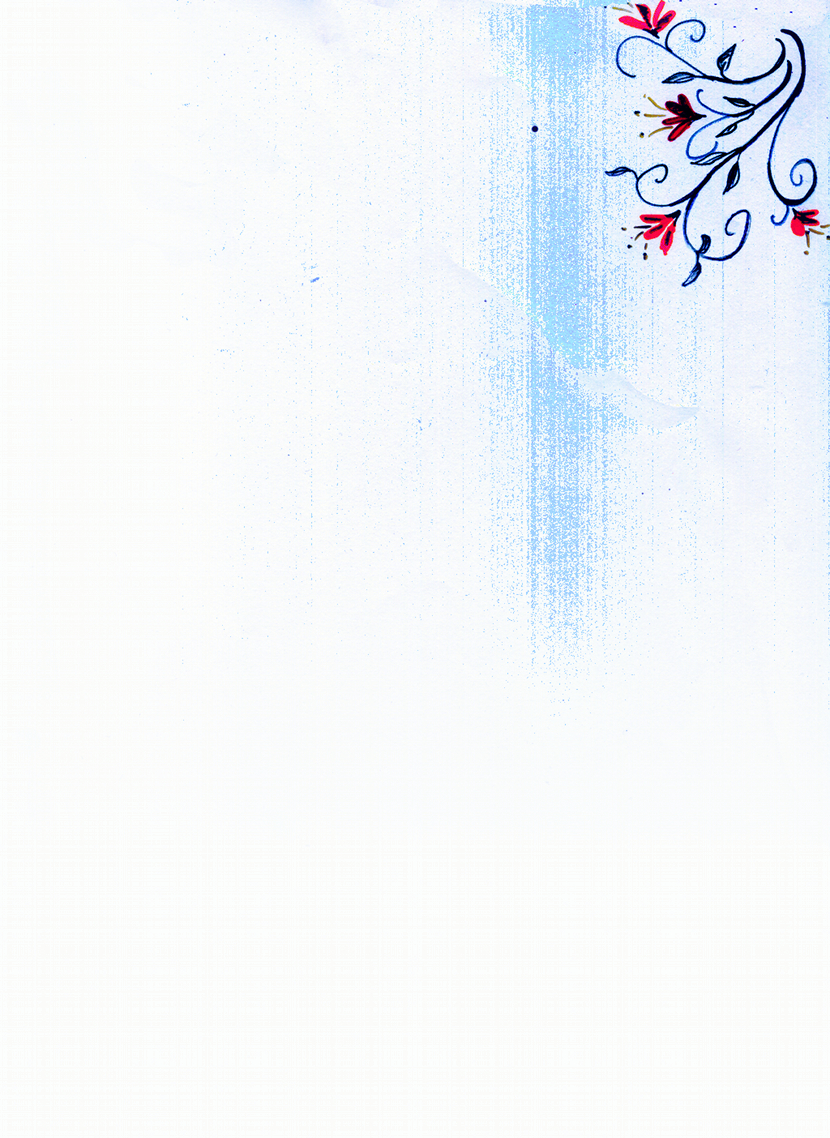
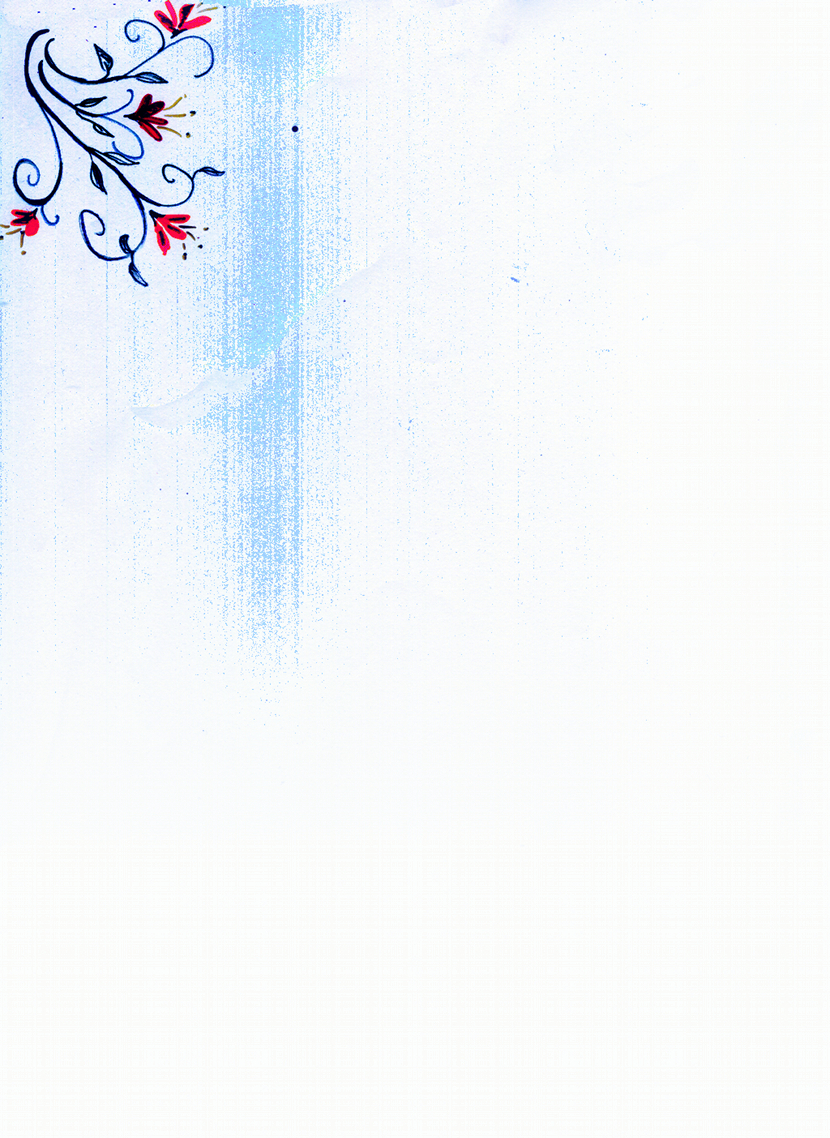
Switching the two columns around.

diff --git a/css/custom.css b/css/custom.css
@@ -1,5 +1,4 @@
 body {
-  background: #f9fafe url("../images/flower-background.jpg") no-repeat top right;
   font-family: Garamond, Arial, Verdana, sans-serif;
   font-size: 100%;
   margin: 0; }
@@ -50,10 +49,13 @@ article {
     list-style: circle;
     list-style-position: inside; }
 
+.container {
+  background: #f9fafe url("../images/flower-background.jpg") no-repeat top left; }
+
 nav {
   color: #2a5383;
   font-weight: bolder;
-  margin: 220px 0 0 0; }
+  margin: 266px 0 0 0; }
   nav ul {
     list-style: none; }
     nav ul li {

diff --git a/css/custom.sass b/css/custom.sass
@@ -1,5 +1,4 @@
 body
-  background: #f9fafe url("../images/flower-background.jpg") no-repeat top right
   font-family: Garamond, Arial, Verdana, sans-serif
   font-size: 100%
   margin: 0
@@ -53,10 +52,13 @@ article
     list-style: circle
     list-style-position: inside
 
+.container
+  background: #f9fafe url("../images/flower-background.jpg") no-repeat top left
 nav
+
   color: #2A5383
   font-weight: bolder
-  margin: 220px 0 0 0
+  margin: 266px 0 0 0
 
   ul
     list-style: none

diff --git a/index.php b/index.php
@@ -22,6 +22,10 @@ $content = file_get_contents($menu[$active_menu_item][1]);
   <meta http-equiv="X-UA-Compatible" content="IE=Edge;chrome=1" >
   <meta charset="utf-8">
 
+  <!--[if lt IE 9]>
+    <script src="http://html5shim.googlecode.com/svn/trunk/html5.js"></script>
+  <![endif]-->
+
   <title>Fairytale of the Forbidden Flower</title>
 
   <meta name="viewport" content="width=device-width, initial-scale=1.0"> 
@@ -54,28 +58,30 @@ $content = file_get_contents($menu[$active_menu_item][1]);
 
     <link href='http://fonts.googleapis.com/css?family=Reenie+Beanie' rel='stylesheet' type='text/css'>
 </head>
+
 <body><div class="container"><div class="row">
 
-  <header>
-    <span class="title">Fairytale of the Forbidden Flower</span><br />
-    <span class="description">A magical concert fairytale.</span>
-  </header>
-
-  <h1><?=$menu[$active_menu_item][0]?></h1>
-
-  <div class="col_8 clearleft"><article>
-    <?=$content?>
-  </div></article>
-
-  <div class="col_4 omega">
-    <nav><ul>
+  <div class="col_4 clearleft"><nav><ul>
      <?foreach($menu as $name => $item):?>
         <li<?=$active_menu_item==$name ? ' class="active"' : ''?>>
           <a href="<?=$item[2]?>" title="<?=$item[0]?>"><?=$item[0]?></a>
         </li>
      <?endforeach?>
-    </ul></nav>
+  </ul></nav></div>
 
+  
+  
+  <div class="col_8 omega">
+
+    <header>
+      <span class="title">Fairytale of the Forbidden Flower</span><br />
+      <span class="description">A magical concert fairytale.</span>
+    </header>
+    
+    <h1><?=$menu[$active_menu_item][0]?></h1>
+    <article>
+      <?=$content?>
+    </article>
   </div>
 
 </div></div></body>
